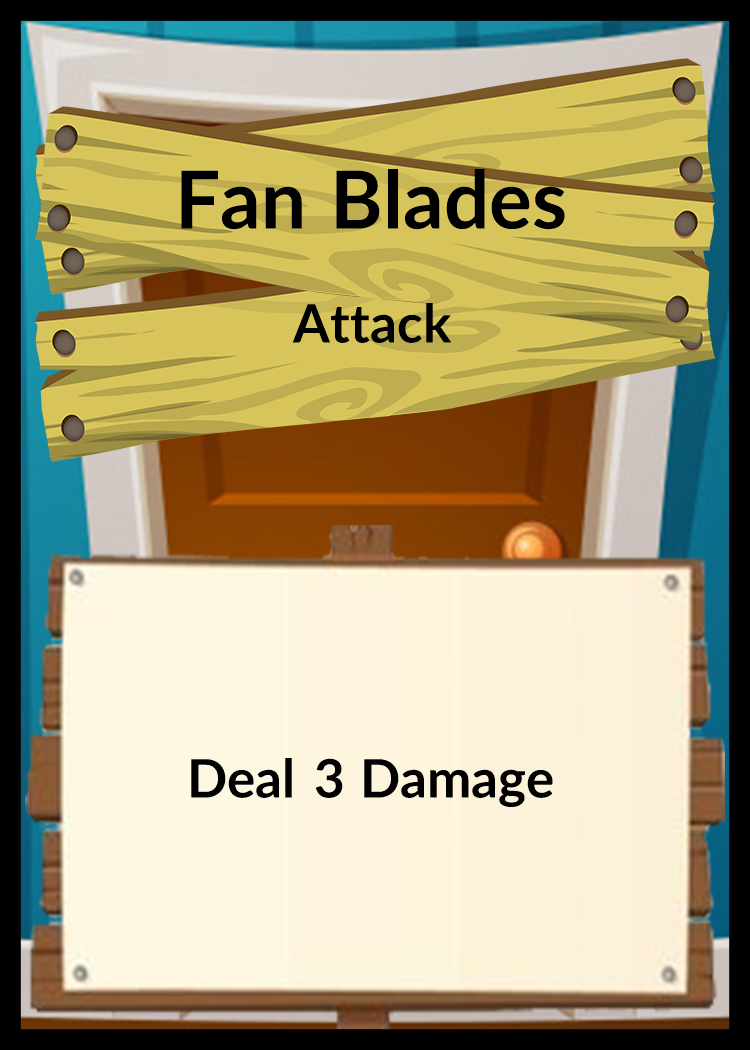
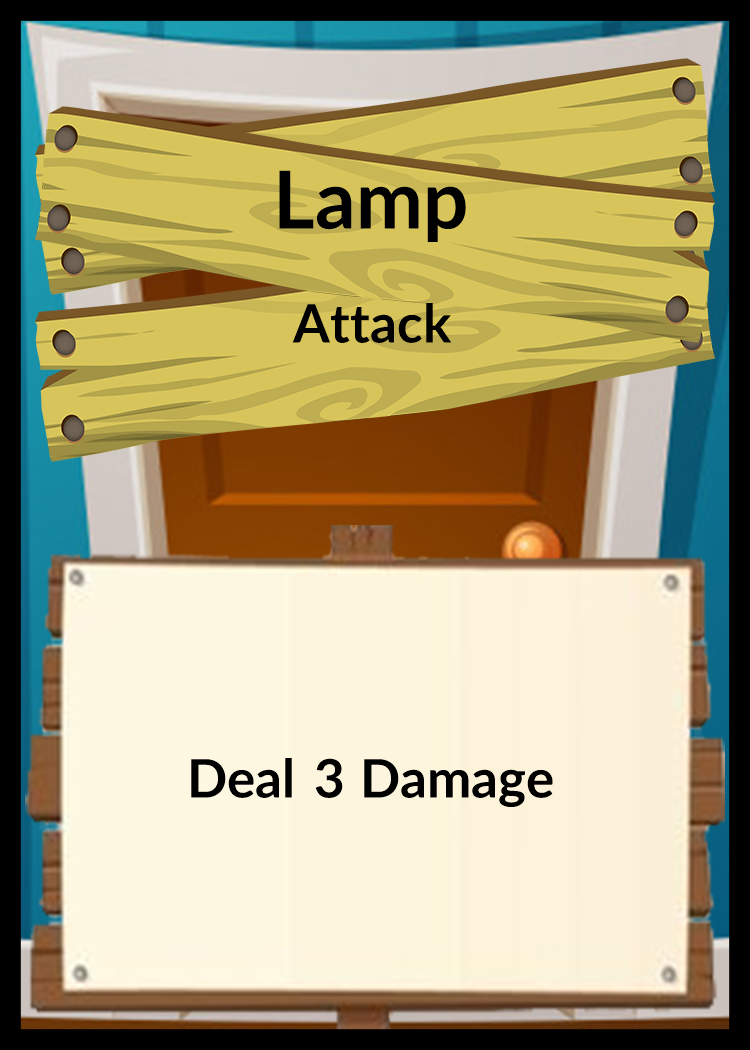
added the three counter cards

Changed region(s): [[0.2147, 0.1524, 0.7667, 0.2438]]

diff --git a/MonoDragons.GGJ/GGJ/Data/Cards.cs b/MonoDragons.GGJ/GGJ/Data/Cards.cs
@@ -28,13 +28,16 @@ namespace MonoDragons.GGJ.Data
             { CardName.Reload, s => new CardView(s, "CowboyCard14") },
 
             { CardName.HousePass, s => new CardView(s, "SmartHouseCard0") },
-            { CardName.FanBlades, s => new CardView(s, "SmartHouseCard1") },
+            { CardName.Lamp, s => new CardView(s, "SmartHouseCard1") },
             { CardName.LightsOut, s => new CardView(s, "SmartHouseCard2") },
             { CardName.BlindingLights, s => new CardView(s, "SmartHouseCard3") },
             { CardName.DustTheRoom, s => new CardView(s, "SmartHouseCard4") },
             { CardName.HeatUp, s => new CardView(s, "SmartHouseCard5") },
             { CardName.CoolDown, s => new CardView(s, "SmartHouseCard6") },
-            { CardName.ShippingBoxesWall, s => new CardView(s, "SmartHouseCard7") }
+            { CardName.ShippingBoxesWall, s => new CardView(s, "SmartHouseCard7") },
+            { CardName.SpinningFanBlades, s => new CardView(s, "SmartHouseCard8") },
+            { CardName.RoombaAttack, s => new CardView(s, "SmartHouseCard9") },
+            { CardName.PowerCordTrip, s => new CardView(s, "SmartHouseCard10") }
         };
 
         private static Dictionary<CardName, CardType> _cardTypes = new Dictionary<CardName, CardType>
@@ -58,13 +61,16 @@ namespace MonoDragons.GGJ.Data
             { CardName.Reload, CardType.Defend },
 
             { CardName.HousePass, CardType.Pass },
-            { CardName.FanBlades, CardType.Attack },
+            { CardName.Lamp, CardType.Attack },
             { CardName.LightsOut, CardType.Defend },
             { CardName.BlindingLights, CardType.Attack },
             { CardName.DustTheRoom, CardType.Attack },
             { CardName.HeatUp, CardType.Charge },
             { CardName.CoolDown, CardType.Charge },
-            { CardName.ShippingBoxesWall, CardType.Defend }
+            { CardName.ShippingBoxesWall, CardType.Defend },
+            { CardName.SpinningFanBlades, CardType.Counter },
+            { CardName.RoombaAttack, CardType.Counter },
+            { CardName.PowerCordTrip, CardType.Counter }
         };
 
         private static Dictionary<CardName, Action<GameData>> _cardActions = new Dictionary<CardName, Action<GameData>>
@@ -161,7 +167,7 @@ namespace MonoDragons.GGJ.Data
                 } },
 
             { CardName.HousePass, data => {} },
-            { CardName.FanBlades, data => Event.Publish(new PlayerDamageProposed { Amount = 3, Target = Player.Cowboy }) },
+            { CardName.Lamp, data => Event.Publish(new PlayerDamageProposed { Amount = 3, Target = Player.Cowboy }) },
             { CardName.LightsOut, data =>
                 {
                     Event.Publish(new PlayerBlockProposed { Amount = 3, Target = Player.House } );
@@ -208,6 +214,33 @@ namespace MonoDragons.GGJ.Data
                     }
                 } },
             { CardName.ShippingBoxesWall, data => Event.Publish(new PlayerBlockProposed { Amount = 5, Target = Player.House }) },
+            { CardName.SpinningFanBlades, data =>
+                {
+                    Event.Publish(new CounterEffectQueued { Caster = Player.Cowboy, Type = CardType.Charge,
+                        Event = new PlayerDamageProposed { Target = Player.House, Amount = 12 } });
+                } },
+            { CardName.RoombaAttack, data =>
+                {
+                    Event.Publish(new CounterEffectQueued { Caster = Player.Cowboy, Type = CardType.Defend,
+                        Event = new BlockRecievedMultiplied { Target = Player.House, Multiplier = 0 } });
+                    Event.Publish(new CounterEffectQueued { Caster = Player.Cowboy, Type = CardType.Defend,
+                        Event = new CardTypeLocked { Target = Player.House, Type = CardType.Defend }});
+                    Event.Publish(new CounterEffectQueued { Caster = Player.Cowboy, Type = CardType.Defend,
+                        Event = new PlayerDamageProposed { Target = Player.House, Amount = 6 } });
+                } },
+            { CardName.PowerCordTrip, data =>
+                {
+                    Event.Publish(new CounterEffectQueued { Caster = Player.Cowboy, Type = CardType.Attack,
+                        Event = new PlayerDamageProposed { Target = Player.Cowboy, Amount = 3 }});
+                    Event.Publish(new CounterEffectQueued { Caster = Player.Cowboy, Type = CardType.Attack,
+                        Event = new CardTypeLocked { Target = Player.House, Type = CardType.Attack }});
+                    Event.Publish(new CounterEffectQueued { Caster = Player.Cowboy, Type = CardType.Attack,
+                        Event = new CardTypeLocked { Target = Player.House, Type = CardType.Defend }});
+                    Event.Publish(new CounterEffectQueued { Caster = Player.Cowboy, Type = CardType.Attack,
+                        Event = new CardTypeLocked { Target = Player.House, Type = CardType.Charge }});
+                    Event.Publish(new CounterEffectQueued { Caster = Player.Cowboy, Type = CardType.Attack,
+                        Event = new CardTypeLocked { Target = Player.House, Type = CardType.Counter }});
+                } },
         };
 
         public static CardView Create(CardState s)
@@ -243,12 +276,15 @@ namespace MonoDragons.GGJ.Data
         Reload = 19,
 
         HousePass = 5,
-        FanBlades = 6,
+        Lamp = 6,
         LightsOut = 7,
         BlindingLights = 8,
         DustTheRoom = 20,
         HeatUp = 21,
         CoolDown = 22,
         ShippingBoxesWall = 23,
+        SpinningFanBlades = 24,
+        RoombaAttack = 25,
+        PowerCordTrip = 26
     }
 }

diff --git a/MonoDragons.GGJ/GGJ/Gameplay/LevelProgression.cs b/MonoDragons.GGJ/GGJ/Gameplay/LevelProgression.cs
@@ -38,13 +38,16 @@ namespace MonoDragons.GGJ.Gameplay
                 new CharacterState(Player.House, 10,
                     new PlayerCardsState(
                         CreateCard(CardName.HousePass),
-                        CreateCard(CardName.FanBlades),
+                        CreateCard(CardName.Lamp),
                         CreateCard(CardName.LightsOut),
                         CreateCard(CardName.BlindingLights),
                         CreateCard(CardName.DustTheRoom),
                         CreateCard(CardName.HeatUp),
                         CreateCard(CardName.CoolDown),
-                        CreateCard(CardName.ShippingBoxesWall))));
+                        CreateCard(CardName.ShippingBoxesWall),
+                        CreateCard(CardName.SpinningFanBlades),
+                        CreateCard(CardName.RoombaAttack),
+                        CreateCard(CardName.PowerCordTrip))));
 
             _house.Initialized(Enemies.Create(Enemy.Bed));
         }
